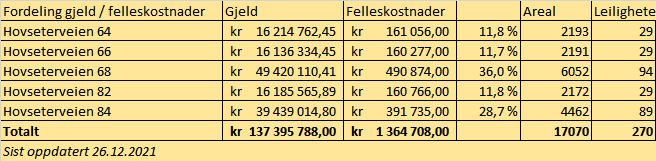
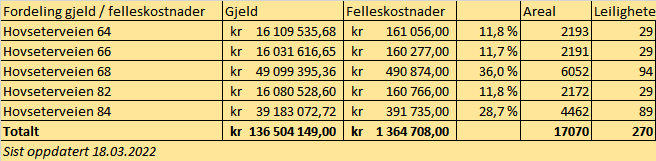
updates

diff --git a/content/forowners/finance/_index.md b/content/forowners/finance/_index.md
@@ -23,17 +23,17 @@ Totalsummen samt fordelingen av disse kostnadene pr leilighetstype basert på fo
 
 ### Felleskostnadene har steget en god del i 2017-2018. Når vil de bli satt ned igjen til tidligere nivå?
 
-Lånene som betjenes med fellesgjelden har en nedbetalingsplan på 30 og 40 år. Dette betyr at man kan ikke forvente at husleien vil gå ned igjen. Innen 30 år er det sikkert behov for andre prosjekt som krever nye lån. I løpet av 2021 vil det bli gjort en vurdering for behov for justeringer. Siste justering ble effektiv januar 2019. Siden den gang har ingen beboere fått endret hva som må innbetales.
+Lånene som betjenes med fellesgjelden har en nedbetalingsplan på 30 og 40 år. Dette betyr at man kan ikke forvente at husleien vil gå ned igjen. Innen 30 år er det sikkert behov for andre prosjekt som krever nye lån. I løpet av 2022 vil det bli gjort en vurdering for behov for justeringer. Siste justering ble effektiv januar 2019. Siden den gang har ingen beboere fått endret hva som må innbetales.
 
 ## Hva dekker fellesgjelden
 
 Borettslaget har forskjellige lån tatt opp til forskjellige behov over tid. Eksempler på lån som er tatt opp nylig er rør og våtromsprosjektet, kjøp av garasje og fasadeprosjekt.
 
-Lånene er totalt på 166 146 660,- (26.12.2021)
+Lånene er totalt på 164 976 786,- (18.03.2021)
 
 ### OBBK02
 
-- Saldo: 28 750 872,00
+- Saldo: 28 472 637,00
 - Månedlig terminer til september 2047
 
 Gjelder kjøp av garasjer i Hovseterveien 70. Fordeles på leiligheter med garasje i Hovseterveien 70 (157 plasser)
@@ -47,14 +47,14 @@ Lån til bad og våtroms rehabilitering.
 
 ### OBOS08
 
-- Saldo: 74 997 471,00
+- Saldo: 74 481 300,00
 - Månedlig terminer til april 2059
 
 Lån til fasadeprosjekt. Dette er nå fullt ut belastet og vil ikke øke mer.
 
 ### OBOS09
 
-- Saldo: 6 478 348
+- Saldo: 6 396 834
 - Månedlig terminer til april 2039
 
 Lån til tidligere vedlikehold.
